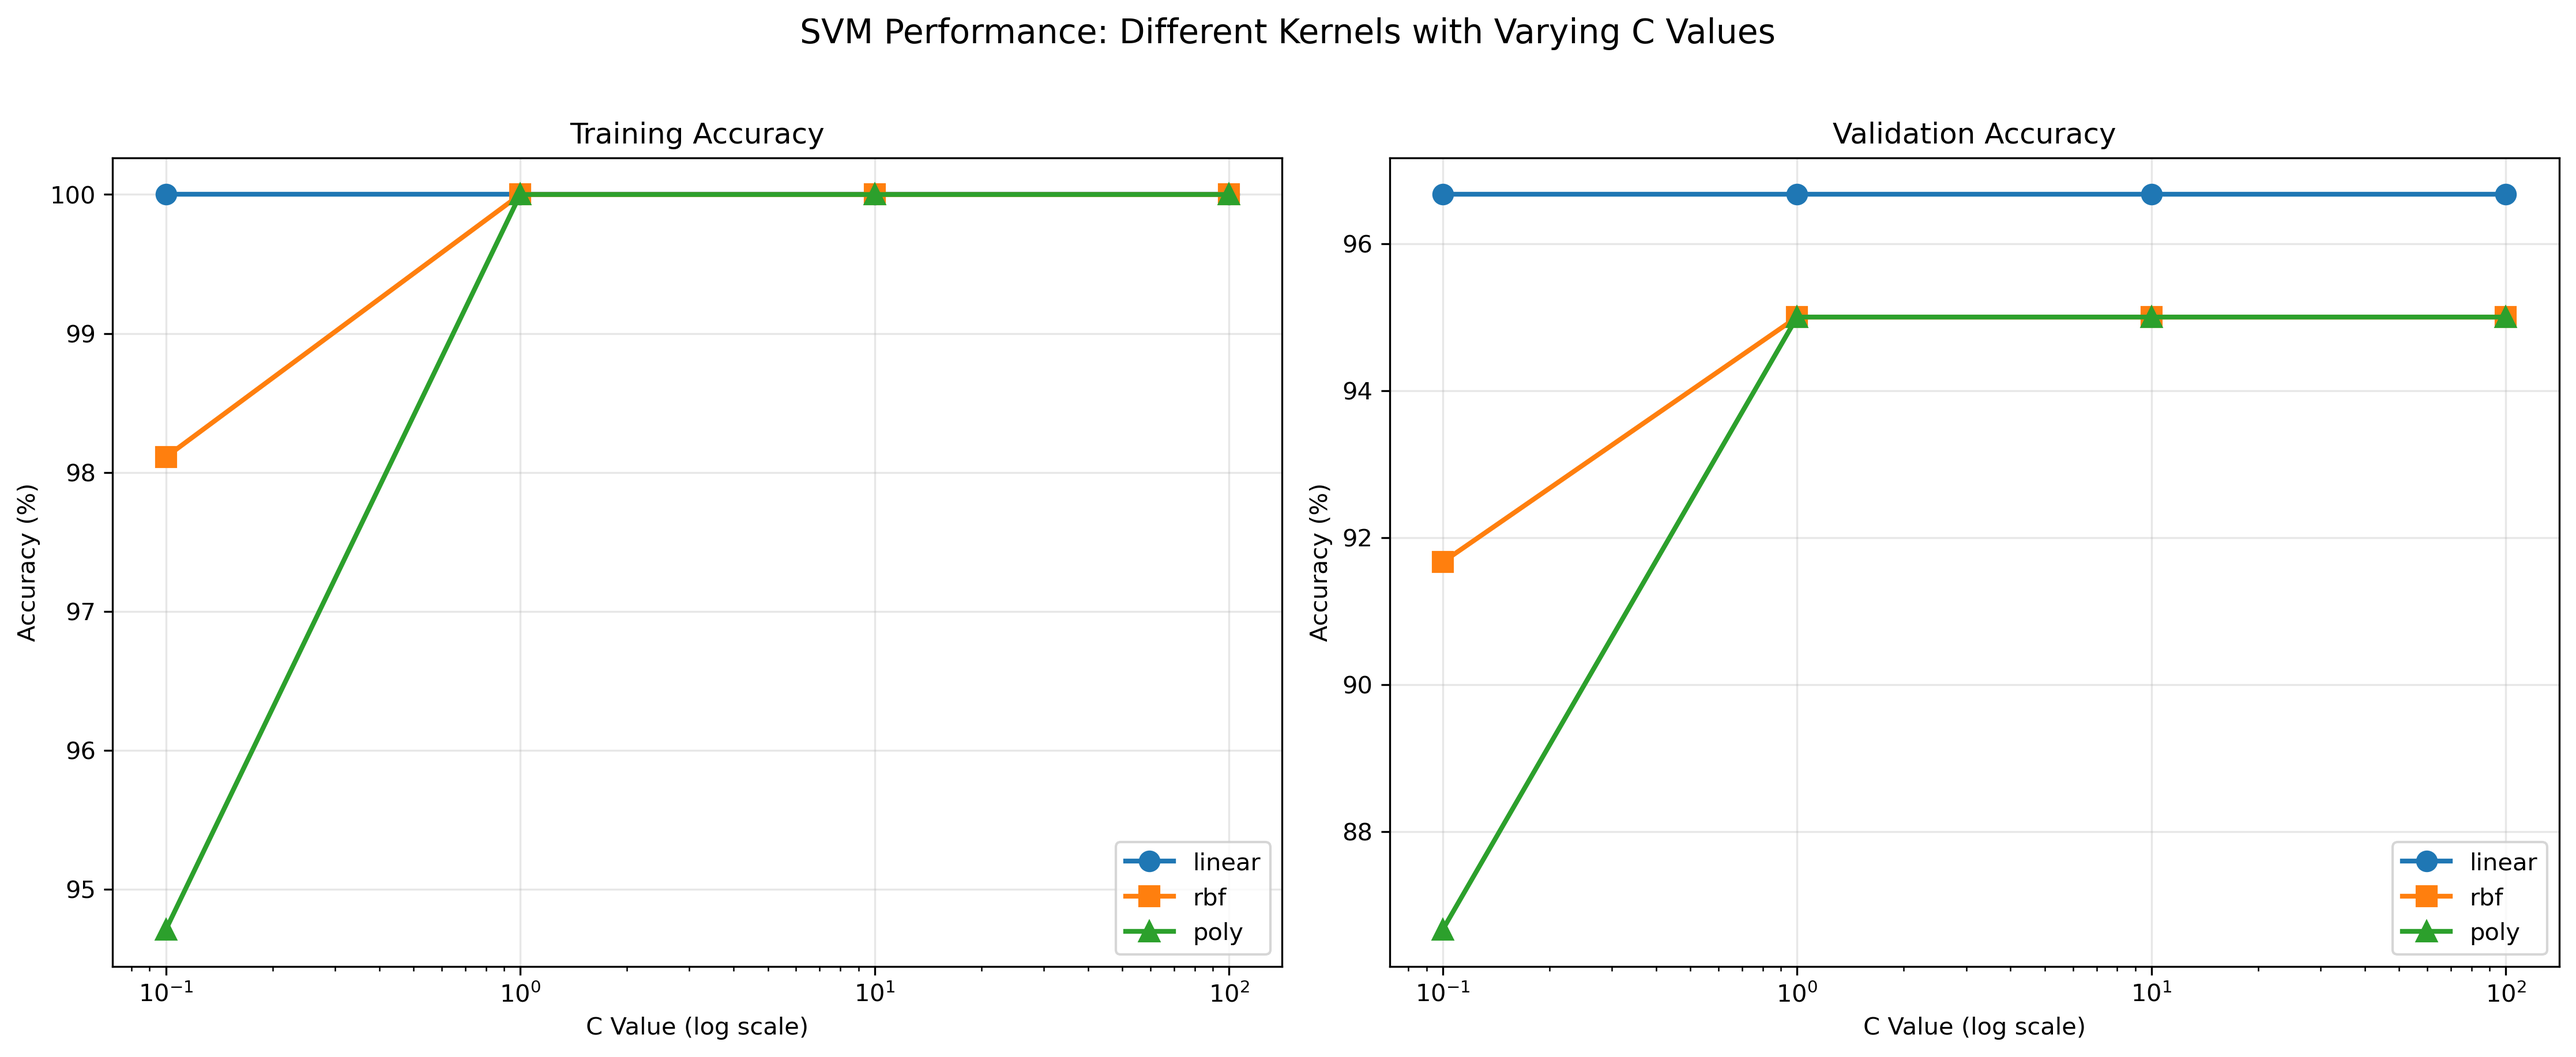
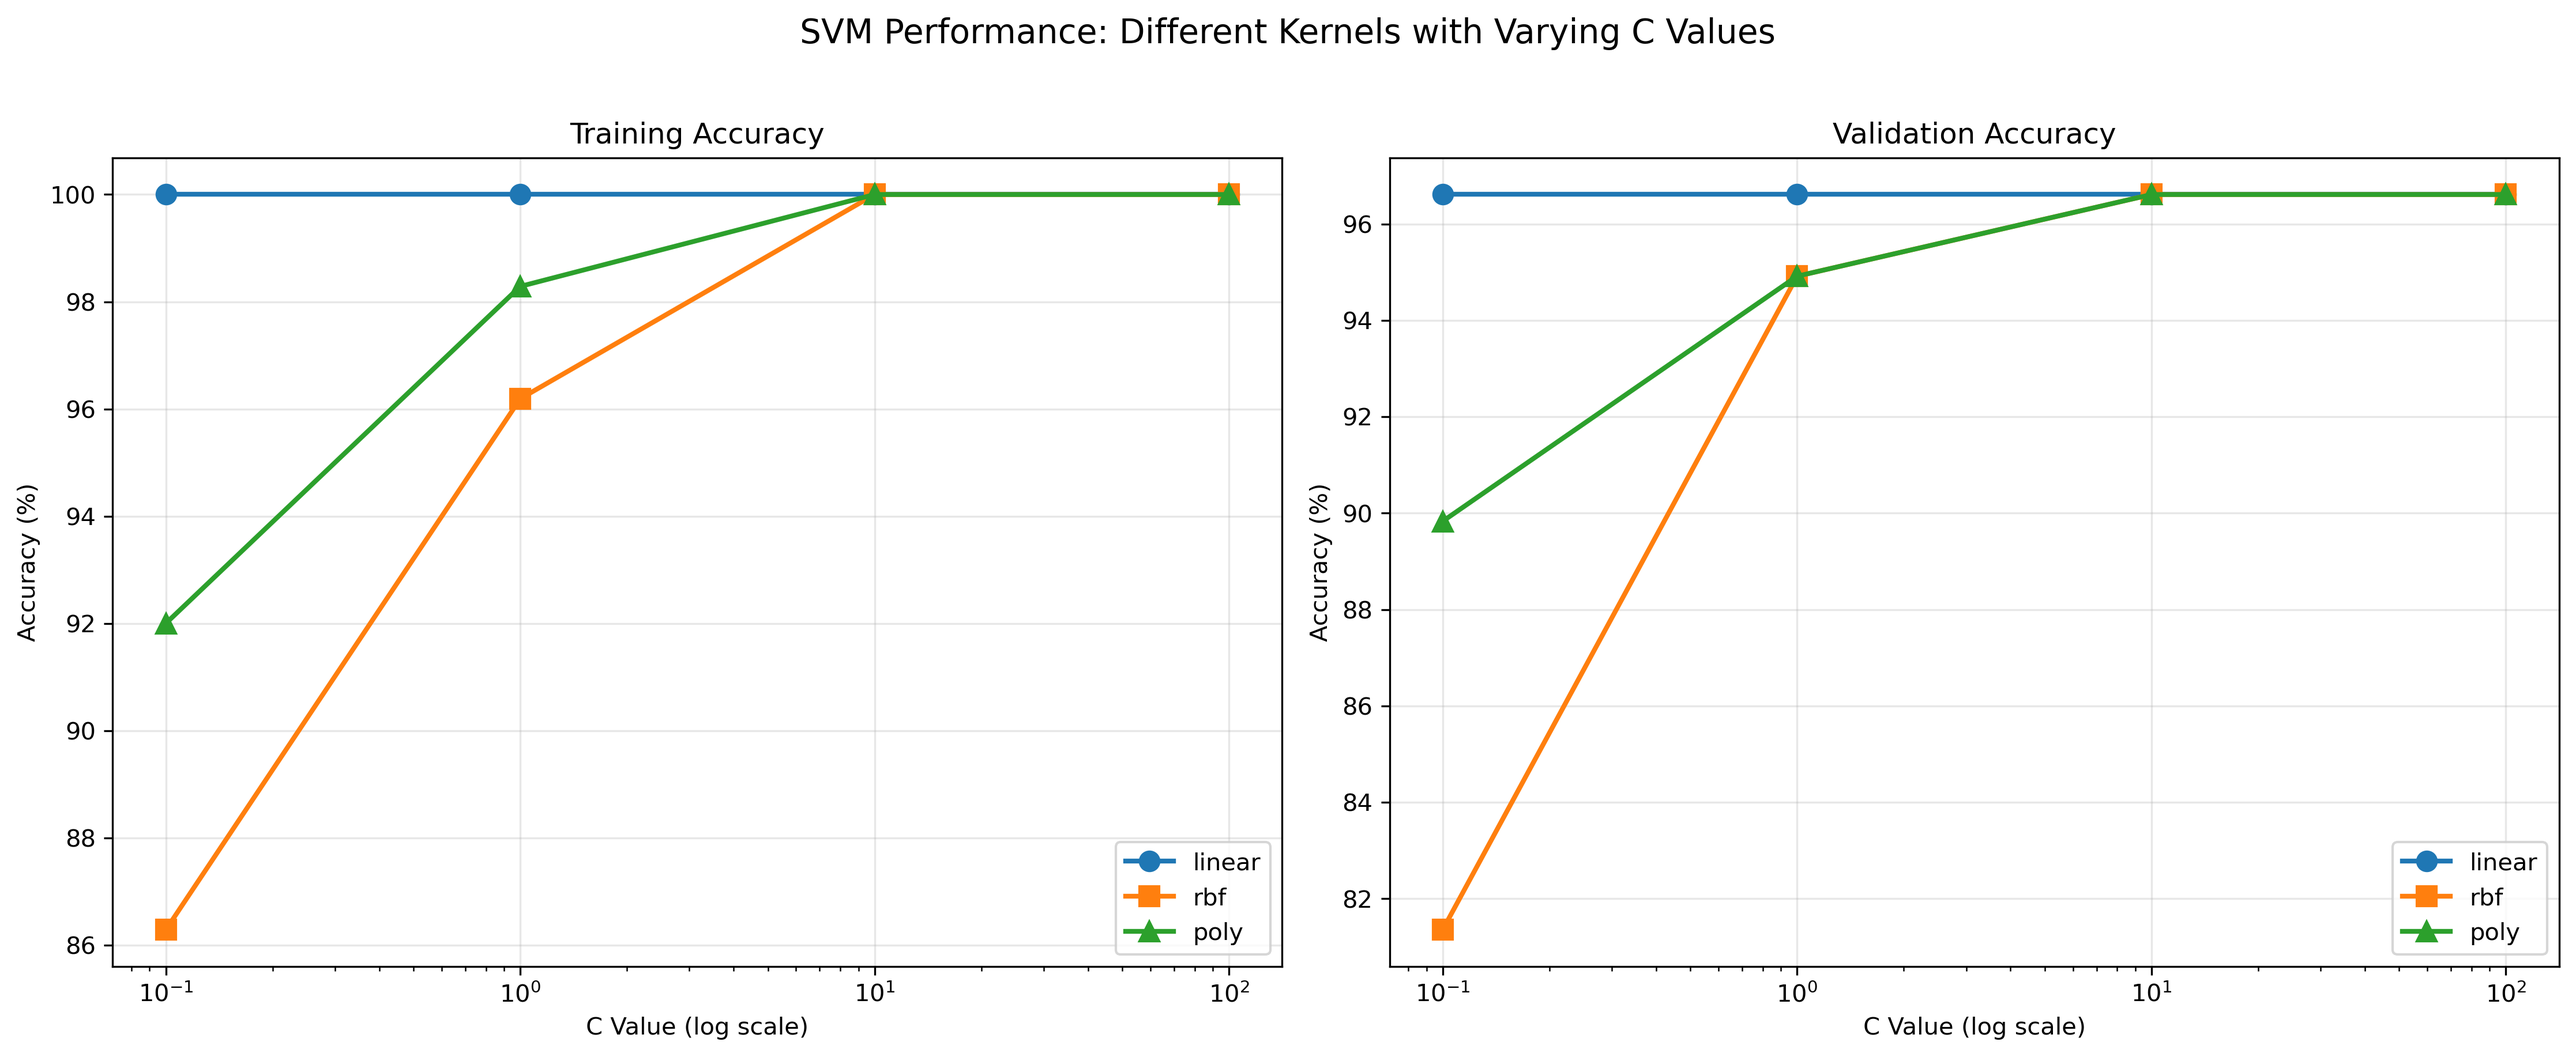
update a better svm baseline

diff --git a/src/svm/Method.py b/src/svm/Method.py
@@ -2,17 +2,71 @@ from svm.Classifier import SVMClassifier
 from dataloader.Dataloader import DataLoader
 import random
 
-def svm_method(data_root='/home/stu12/homework/MLPR/data'):
-    
+def svm_method(
+    data_root: str = '/home/stu12/homework/MLPR/data',
+    *,
+    kernel: str = 'linear',
+    C: float = 1.0,
+    gamma: str | float = 'scale',
+    degree: int = 3,
+    epsilon: float = 1e-5,
+    num_classes: int = 10,
+    seed: int = 42,
+):
+    """
+    运行 SVM 
+
+    参数说明：
+    - data_root: 数据集根目录。
+    - kernel: 核函数类型，'linear' | 'rbf' | 'poly'。
+    - C: 正则化系数。
+    - gamma: 'scale' 或数值（rbf/poly 使用）。
+    - degree: 多项式核的次数。
+    - epsilon: 支持向量筛选阈值
+    - num_classes: 随机抽取用于训练评估的类别数。
+    - seed
+    """
+
+    # 解析 gamma：支持传入字符串 'scale' 或可解析为 float 的字符串/数值
+    gamma_val: str | float
+    if isinstance(gamma, str):
+        if gamma.strip().lower() == 'scale':
+            gamma_val = 'scale'
+        else:
+            try:
+                gamma_val = float(gamma)
+            except ValueError:
+                raise ValueError(f"gamma 参数不合法：{gamma}，应为 'scale' 或数值")
+    else:
+        gamma_val = float(gamma)
+
     train_loader = DataLoader(data_root, split='train', mode='feature')
-    classifier = SVMClassifier(kernel='linear', C=1.0)
 
-    random.seed(42)
-    target_labels = random.sample(range(1, len(train_loader.class_dirs)+1), 10)
-    train_features, train_labels = train_loader.get_data_and_labels(target_labels=target_labels)
+    # 类别采样（类别 id 从 1 开始，保持与 DataLoader 的标签映射一致）
+    total_classes = len(train_loader.class_dirs)
+    if num_classes < 1 or num_classes > total_classes:
+        raise ValueError(f"num_classes 应在 [1, {total_classes}]，当前为 {num_classes}")
+    random.seed(seed)
+    target_labels = random.sample(range(1, total_classes + 1), num_classes)
 
+    # 构建分类器
+    classifier = SVMClassifier(
+        kernel=kernel,
+        C=C,
+        gamma=gamma_val,
+        degree=degree,
+        epsilon=epsilon,
+    )
+    print(f"分类器参数: kernel={classifier.kernel}, C={classifier.C}")
+    print(f"使用类别数: {num_classes}")
+
+    # 训练集
+    train_features, train_labels = train_loader.get_data_and_labels(
+        target_labels=target_labels
+    )
     classifier.train(train_features, train_labels)
 
+    # 验证集
     val_loader = DataLoader(data_root, split='val', mode='feature')
     val_features, val_labels = val_loader.get_data_and_labels(target_labels=target_labels)
     val_accuracy = classifier.evaluate(val_features, val_labels)

diff --git a/src/main.py b/src/main.py
@@ -167,6 +167,47 @@ def build_parser() -> argparse.ArgumentParser:
         default="/home/stu12/homework/MLPR/data",
         help="Dataset root directory",
     )
+    svm_parser.add_argument(
+        "--kernel",
+        choices=["linear", "rbf", "poly"],
+        default="linear",
+        help="SVM kernel type",
+    )
+    svm_parser.add_argument(
+        "--C",
+        type=float,
+        default=1.0,
+        help="Regularization parameter C",
+    )
+    svm_parser.add_argument(
+        "--gamma",
+        default="scale",
+        help="Gamma for RBF/poly ('scale' or numeric value)",
+    )
+    svm_parser.add_argument(
+        "--degree",
+        type=int,
+        default=3,
+        help="Degree for polynomial kernel",
+    )
+    svm_parser.add_argument(
+        "--epsilon",
+        type=float,
+        default=1e-5,
+        help="Threshold for support vector filtering (numerical stability)",
+    )
+    svm_parser.add_argument(
+        "--num-classes",
+        type=int,
+        default=10,
+        help="Number of classes to randomly sample for the experiment",
+    )
+    svm_parser.add_argument(
+        "--seed",
+        type=int,
+        default=42,
+        help="Random seed for class sampling",
+    )
 
     return parser
 
@@ -202,7 +243,16 @@ def main():
             data_root=args.data_root,
         )
     elif args.command == "svm":
-        svm_method(data_root=args.data_root)
+        svm_method(
+            data_root=args.data_root,
+            kernel=args.kernel,
+            C=args.C,
+            gamma=args.gamma,
+            degree=args.degree,
+            epsilon=args.epsilon,
+            num_classes=args.num_classes,
+            seed=args.seed,
+        )
     else:
         parser.error("Unknown command")
 

diff --git a/src/svm/Classifier.py b/src/svm/Classifier.py
@@ -137,7 +137,7 @@ class BinarySVM:
         q = matrix(-np.ones(n_samples))
         G = matrix(np.vstack((-np.eye(n_samples), np.eye(n_samples))))
         h = matrix(np.hstack((np.zeros(n_samples), np.ones(n_samples) * self.C)))
-        A = matrix(labels, (1, n_samples))
+        A = matrix(labels, (1, n_samples), 'd')
         b = matrix(0.0)
 
         # 求解二次规划问题
@@ -171,7 +171,7 @@ class BinarySVM:
 
     def decision_func(self, features):
         """计算决策函数值"""
-        K = self._kernel_function(self.X_train, features)
+        K = self._kernel_function(self.support_vectors, features)
         decision = np.dot(self.alpha * self.support_vector_labels, K) + self.b
         return decision
     

diff --git a/src/svm/Evaluate.py b/src/svm/Evaluate.py
@@ -1,4 +1,4 @@
-from Classifier import SVMClassifier
+from .Classifier import SVMClassifier
 from dataloader.Dataloader import DataLoader
 import random
 import numpy as np

diff --git a/readme.md b/readme.md
@@ -53,15 +53,53 @@ python -m src.main <sub-command> [options]
 
 ## SVM 基线
 
-SVM 使用 `dataloader.DataLoader` 的特征模式载入预提取特征，默认随机抽取 10 个类别并训练线性核 SVC。结果会打印验证集准确率，详细实验输出可按需重定向至文件。
+SVM 使用 `dataloader.DataLoader` 的特征模式载入预提取特征，默认随机抽取 10 个类别并训练线性核分类器，随后在同一子集上进行验证并打印准确率。
 
-示例命令：
+子命令与参数：
+
+```bash
+python -m src.main svm \
+	--data-root /home/stu12/homework/MLPR/data \
+	[--kernel {linear,rbf,poly}] \
+	[--C 1.0] \
+	[--gamma scale|<float>] \
+	[--degree 3] \
+	[--epsilon 1e-5] \
+	[--num-classes 10] \
+	[--seed 42]
+```
+
+参数说明：
+
+- `--kernel`：核函数类型，支持 `linear`、`rbf`、`poly`，默认 `linear`。
+- `--C`：正则化系数，默认 `1.0`。
+- `--gamma`：`rbf`/`poly` 的核宽度；可为 `scale`（默认）或显式数值（如 `0.1`）。
+- `--degree`：多项式核次数，默认 `3`。
+- `--epsilon`：用于数值稳定的支持向量筛选阈值，默认 `1e-5`。
+- `--num-classes`：从全部类别中随机抽取的子集大小，默认 `10`。
+- `--seed`：类别采样的随机种子，默认 `42`。
+
+示例：
+
+- 线性核（默认配置）：
 
 ```bash
 python -m src.main svm --data-root /home/stu12/homework/MLPR/data
 ```
 
-如需尝试不同数据根目录或自定义特征，请调整 `--data-root` 与对应的特征文件。
+- RBF 核并指定 `gamma=0.1`、`C=4.0`，并使用 20 个类别：
+
+```bash
+python -m src.main svm \
+	--data-root /home/stu12/homework/MLPR/data \
+	--kernel rbf \
+	--gamma 0.1 \
+	--C 4.0 \
+	--num-classes 10 \
+	--seed 42
+```
+
+如需尝试不同数据根目录或自定义特征，请调整 `--data-root` 与对应的特征文件路径。
 
 ## CNN 训练
 
